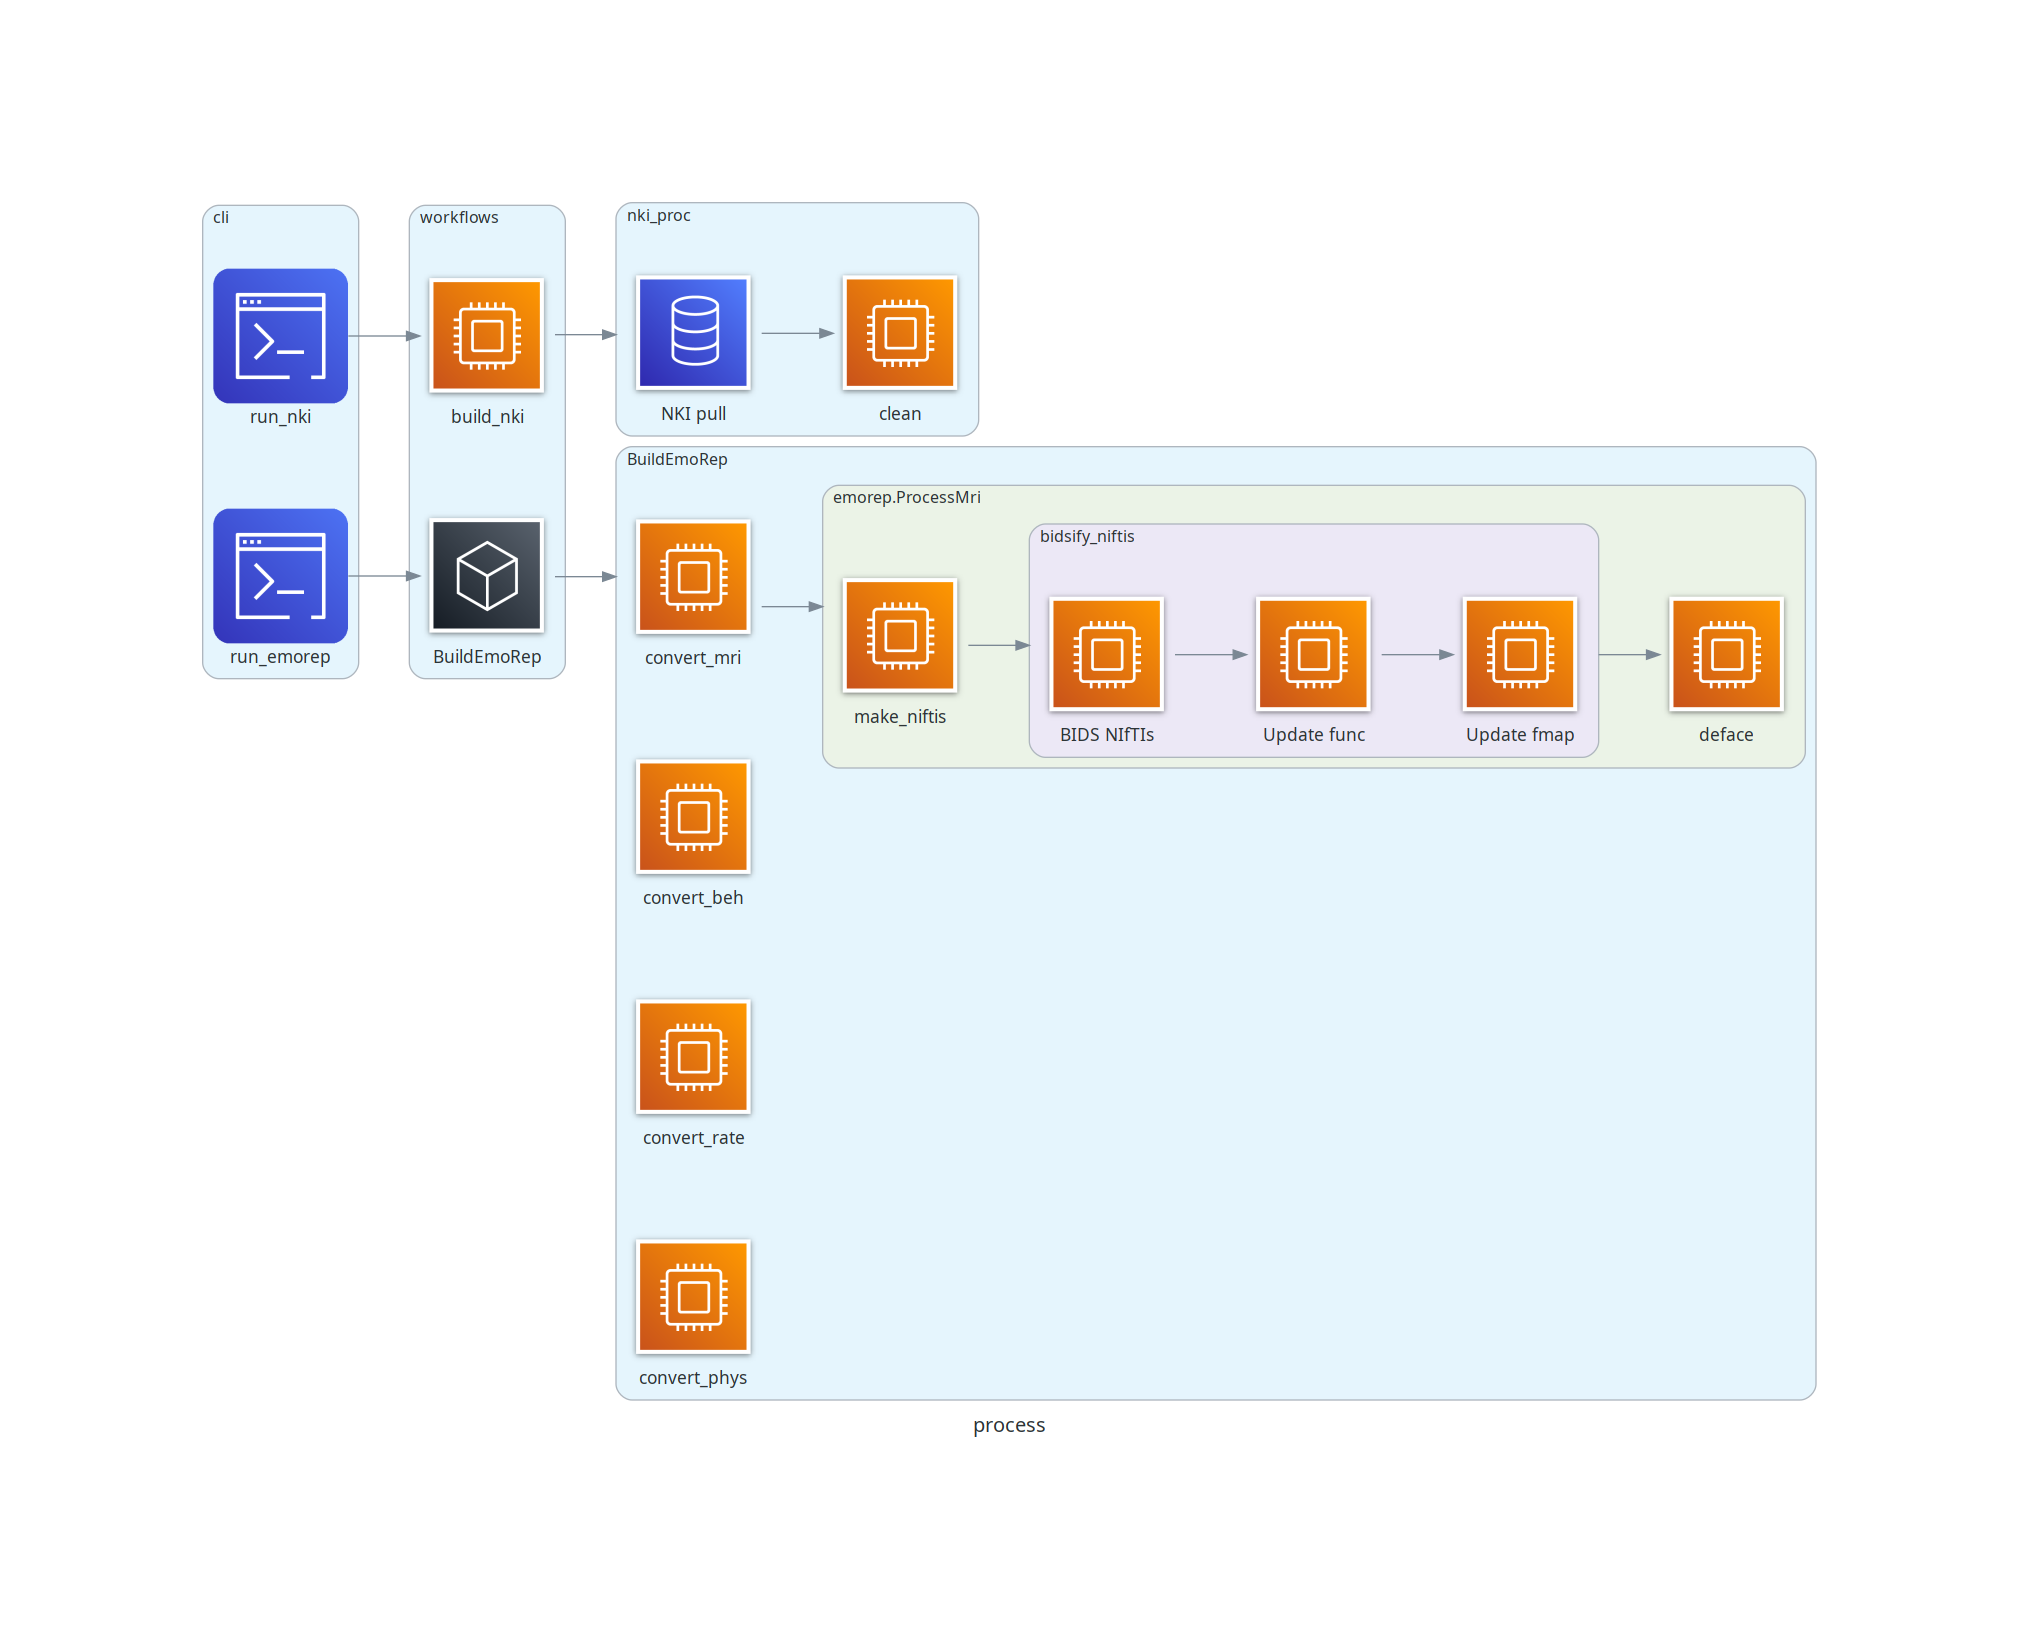
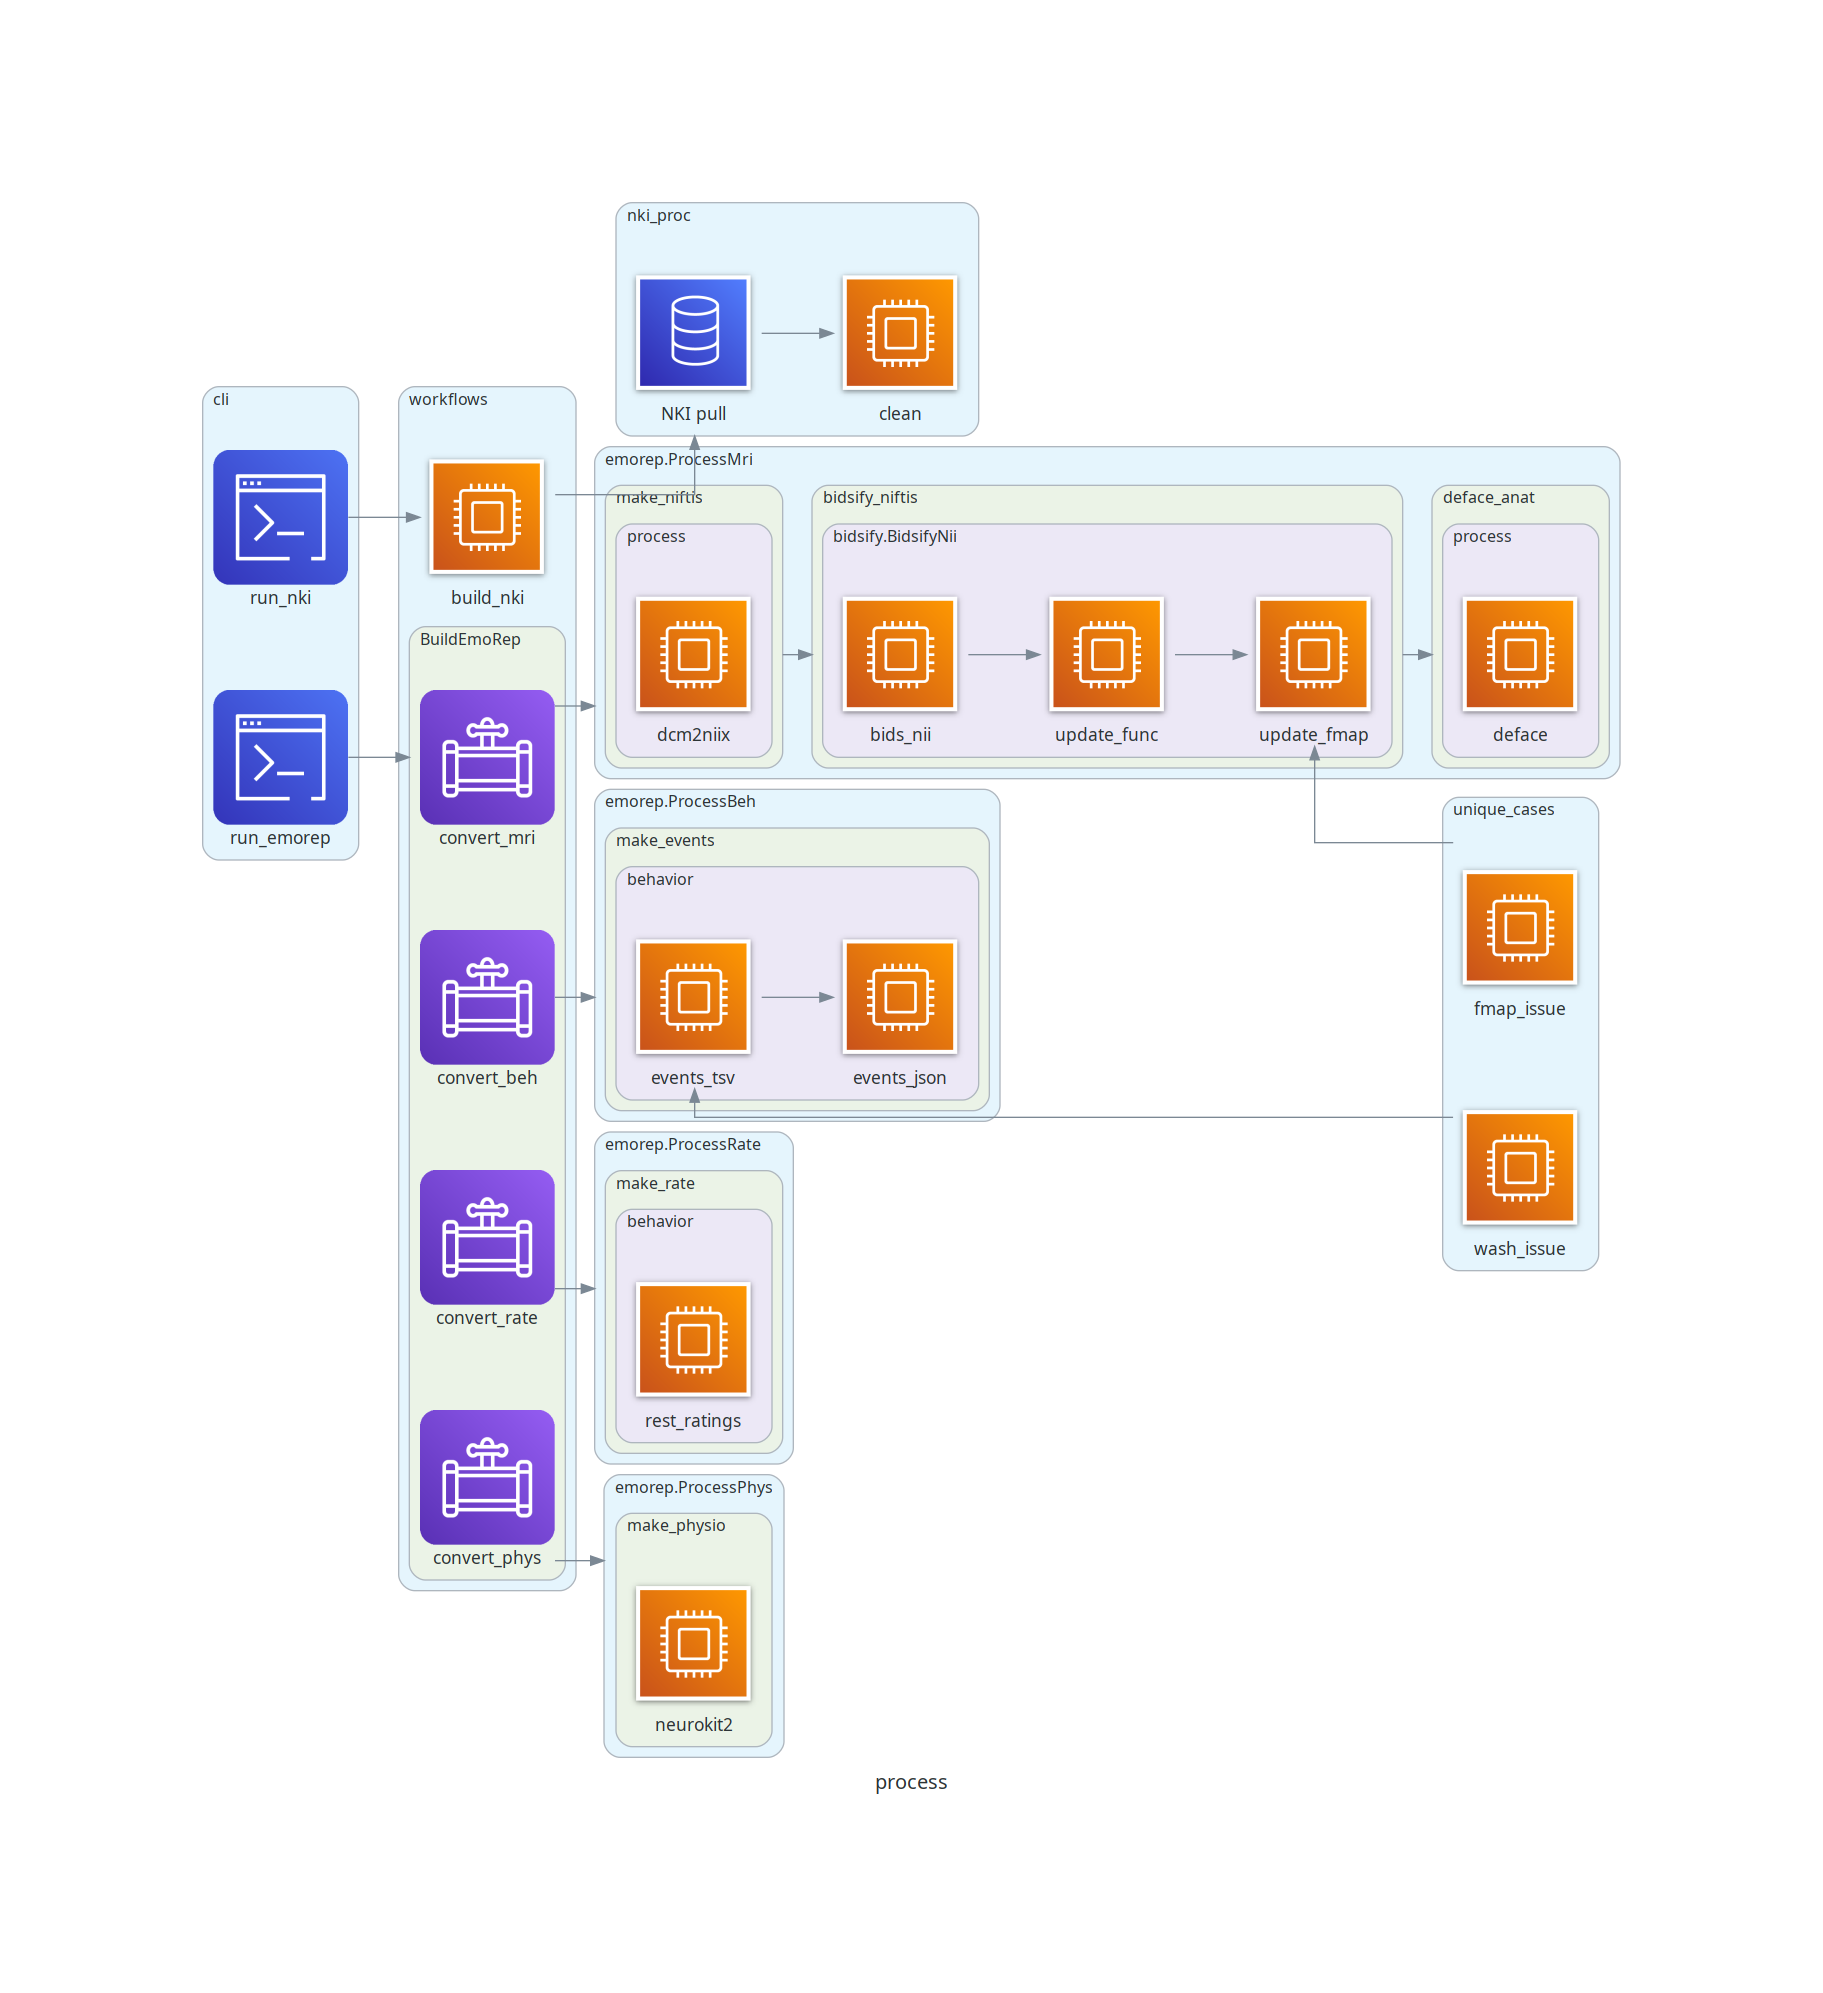
[DEV] finalized process diagram

diff --git a/diagrams/mk_diagrams.py b/diagrams/mk_diagrams.py
@@ -2,7 +2,8 @@
 from diagrams import Cluster, Diagram, Edge
 
 # %%
-from diagrams.aws.compute import Compute, EC2Instance
+from diagrams.aws.analytics import DataPipeline
+from diagrams.aws.compute import Compute
 from diagrams.aws.database import Database
 from diagrams.aws.devtools import CommandLineInterface
 from diagrams.aws.general import General
@@ -47,41 +48,78 @@ graph_attr = {
     "compound": "true",
     }
 
-with Diagram("process", graph_attr=graph_attr):
+with Diagram("process", graph_attr=graph_attr, show=False):
     with Cluster("cli"):
         cli_nki = CommandLineInterface("run_nki")
         cli_emo = CommandLineInterface("run_emorep")
 
     with Cluster("workflows"):
         wf_nki = Compute("build_nki")
-        wf_emo = General("BuildEmoRep")
+        with Cluster("BuildEmoRep"):
+            conv_mri = DataPipeline("convert_mri")
+            conv_beh = DataPipeline("convert_beh")
+            conv_rate = DataPipeline("convert_rate")
+            conv_phys = DataPipeline("convert_phys")
 
     with Cluster("nki_proc"):
         nk_py = Database("NKI pull")
         nk_clean = Compute("clean")
 
-    with Cluster("BuildEmoRep"):
-        conv_mri = Compute("convert_mri")
-        conv_beh = Compute("convert_beh")
-        conv_rate = Compute("convert_rate")
-        conv_phys = Compute("convert_phys")
+    with Cluster("emorep.ProcessMri"):
+        with Cluster("make_niftis"):
+            with Cluster("process"):
+                make_nii = Compute("dcm2niix")
+        with Cluster("bidsify_niftis"):
+            with Cluster("bidsify.BidsifyNii"):
+                bids_nii = Compute("bids_nii")
+                up_func = Compute("update_func")
+                up_fmap = Compute("update_fmap")
+        with Cluster("deface_anat"):
+            with Cluster("process"):
+                deface_nii = Compute("deface")
 
-        with Cluster("emorep.ProcessMri"):
-            make_nii = Compute("make_niftis")
-            with Cluster("bidsify_niftis"):
-                bids_nii = Compute("BIDS NIfTIs")
-                up_func = Compute("Update func")
-                up_fmap = Compute("Update fmap")
-            deface_nii = Compute("deface")
+    with Cluster("emorep.ProcessBeh"):
+        with Cluster("make_events"):
+            with Cluster("behavior"):
+                ev_tsv = Compute("events_tsv")
+                ev_json = Compute("events_json")
 
+    with Cluster("emorep.ProcessRate"):
+        with Cluster("make_rate"):
+            with Cluster("behavior"):
+                rest_tsv = Compute("rest_ratings")
+
+    with Cluster("emorep.ProcessPhys"):
+        with Cluster("make_physio"):
+            phys_txt = Compute("neurokit2")
+
+    with Cluster("unique_cases"):
+        fix_wash = Compute("wash_issue")
+        fix_fmap = Compute("fmap_issue")
+
+
+    # NKI workflow
     cli_nki >> wf_nki >> Edge(lhead='cluster_nki_proc') >> nk_py
     nk_py >> nk_clean
-    cli_emo >> wf_emo >> Edge(lhead='cluster_BuildEmoRep') >> conv_mri
-    conv_mri >> Edge(lhead='cluster_emorep.ProcessMri') >> make_nii
-    make_nii >> Edge(lhead='cluster_bidsify_niftis') >> bids_nii
-    bids_nii >> up_func >> up_fmap
-    up_fmap >> Edge(ltail='cluster_bidsify_niftis') >> deface_nii
 
+    # Start EmoRep
+    cli_emo >> Edge(lhead='cluster_BuildEmoRep') >> conv_mri
+
+    # MRI workflow
+    conv_mri >> Edge(lhead='cluster_emorep.ProcessMri') >> make_nii
+    make_nii >> Edge(
+        lhead='cluster_bidsify_niftis', ltail='cluster_make_niftis'
+        ) >> bids_nii
+    bids_nii >> up_func >> up_fmap
+    up_fmap >> Edge(ltail='cluster_bidsify_niftis', lhead='cluster_deface_anat') >> deface_nii
+    up_fmap << fix_fmap
+
+    # Behavior, rest ratings, and physio
+    conv_beh >> Edge(lhead='cluster_emorep.ProcessBeh') >> ev_tsv
+    ev_tsv >> ev_json
+    ev_tsv << fix_wash
+    conv_rate >> Edge(lhead='cluster_emorep.ProcessRate') >> rest_tsv
+    conv_phys >> Edge(lhead='cluster_emorep.ProcessPhys') >> phys_txt
 
 
 
